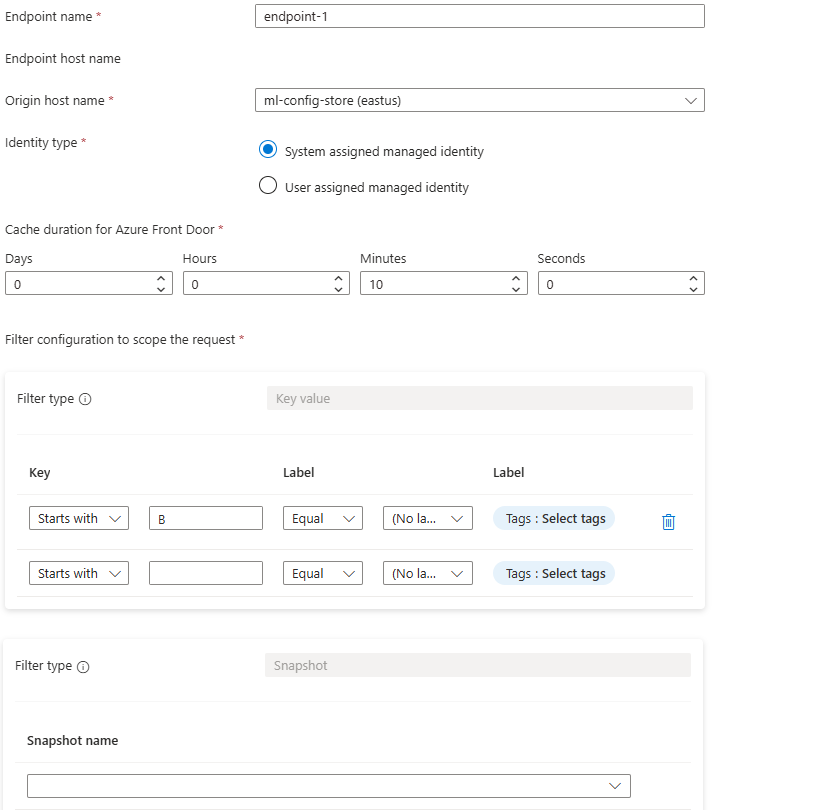
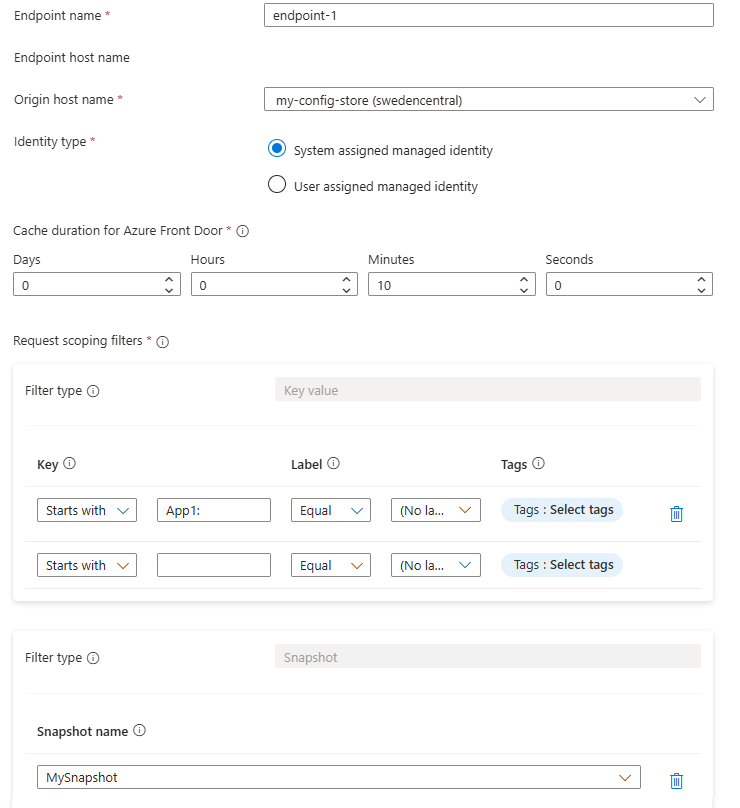
Updates from review

diff --git a/articles/azure-app-configuration/how-to-connect-azure-front-door.md b/articles/azure-app-configuration/how-to-connect-azure-front-door.md
@@ -23,6 +23,7 @@ Before you begin, ensure you have:
 - An existing Azure App Configuration store
 - Permissions to create and manage Azure Front Door resources (Contributor or equivalent)
 - Permissions to  assign roles on the App Configuration resource (Owner or User Access Administrator)
+- App Configuration Data Owner or App Configuration Data Reader role 
 - Basic understanding of [CDN and content delivery concepts](/azure/frontdoor/front-door-overview)
 
 ## Set up the Azure Front Door integration
@@ -125,31 +126,13 @@ When you no longer need to manage your Front Door profile through App Configurat
 
 ## Troubleshoot common issues
 
-### Resolve identity configuration warnings
+If you encounter issues while connecting Azure Front Door to your App Configuration store, consider the following troubleshooting steps:
 
-If endpoints show identity configuration warnings:
-
-1. Verify that managed identity is properly configured for the endpoint.
-1. Ensure the identity has appropriate permissions to access App Configuration.
-1. Check that the correct identity type is selected in the endpoint configuration.
-
-### Fix endpoint accessibility issues
-
-If you can't access endpoints:
-
-1. Verify that the origin host name is correctly configured.
-1. Check network connectivity between Azure Front Door and App Configuration.
-1. Confirm that DNS resolution is working properly.
-
-### Address connection failures
-
-If connection attempts fail:
-
-1. Ensure you have appropriate permissions in the subscription and resource group.
-1. Verify that the Azure Front Door resource provider is registered in your subscription.
-1. Check for any service-level issues on the Azure status page.
-
-For additional help, use the **Feedback** option to report preview-specific problems or contact Azure support for subscription-related issues.
+- Ensure that you have sufficient permissions to create and manage Front Door resources (Contributor or equivalent)
+- Ensure that you have sufficient permissions to assign roles (Owner or User Access Administrator).
+- Ensure that the selected managed identity has the App Configuration Data Reader role assignment.
+- From Front Door portal, make sure that the origin is correctly setup to be able to authenticate with the App Configuration origin. Learn how to [use managed identities to authenticate to origins](/azure/frontdoor/origin-authentication-with-managed-identities)
+- Verify that the Azure Front Door resource provider is registered in your subscription.
 
 ## Related content
 

diff --git a/includes/azure-app-configuration-create-front-door-endpoint.md b/includes/azure-app-configuration-create-front-door-endpoint.md
@@ -3,7 +3,7 @@ author: maud-lv
 ms.author: malev
 ms.service: azure-app-configuration
 ms.topic: include
-ms.date: 02/14/2023
+ms.date: 11/05/2025
 ---
 
    - Basic settings:
@@ -23,5 +23,10 @@ ms.date: 02/14/2023
 
    - **Filter Configuration to scope the request**: Configure one or more filters to control which requests pass through Azure Front Door. This prevents accidental exposure of sensitive configuration and ensures only the settings your application needs are accessible. The filters here must exactly match those used in your application code; otherwise, requests will be rejected by Azure Front Door.
       
-      - Specify the **Key**, **Label**, and **Tag** filters to narrow down the key values available for retrieval through Front Door.
-      - Select one or more **Snapshot name**s to restrict access to specific snapshots.
+      > [!NOTE]
+      > To setup the right scoping filters, you need to know what filters are used in your application to load key-values or snapshots from App Configuration. For example, if your application needs to load keys that start with the *App1:* prefix, and a snapshot whose name is *MySnapshot*, enter those values in the Key and Snapshot name filters.
+   
+      - **Key**: The key filter to apply when querying Azure App Configuration for key-values. Reserved characters: asterisk (`*`), comma (`,`), and backslash (`\`) must be escaped using a backslash (`\`) when filtering multiple key-values.
+      - **Label**: The label filter to apply when querying Azure App Configuration for key-values. Reserved characters: asterisk (`*`), comma (`,`), and backslash (`\`) must be escaped using a backslash (`\`) when filtering multiple key-values.
+      - **Tags**: The tag name and value filter to apply when querying Azure App Configuration for key-values. Reserved characters: asterisk (`*`), comma (`,`), backslash (`\`), and equals (`=`) must always be escaped using a backslash (`\`).
+      - **Snapshot name**: Name of snapshot whose content should be accessible through this Azure Front Door endpoint. You can select one or more snapshots to restrict access to specific snapshots.
